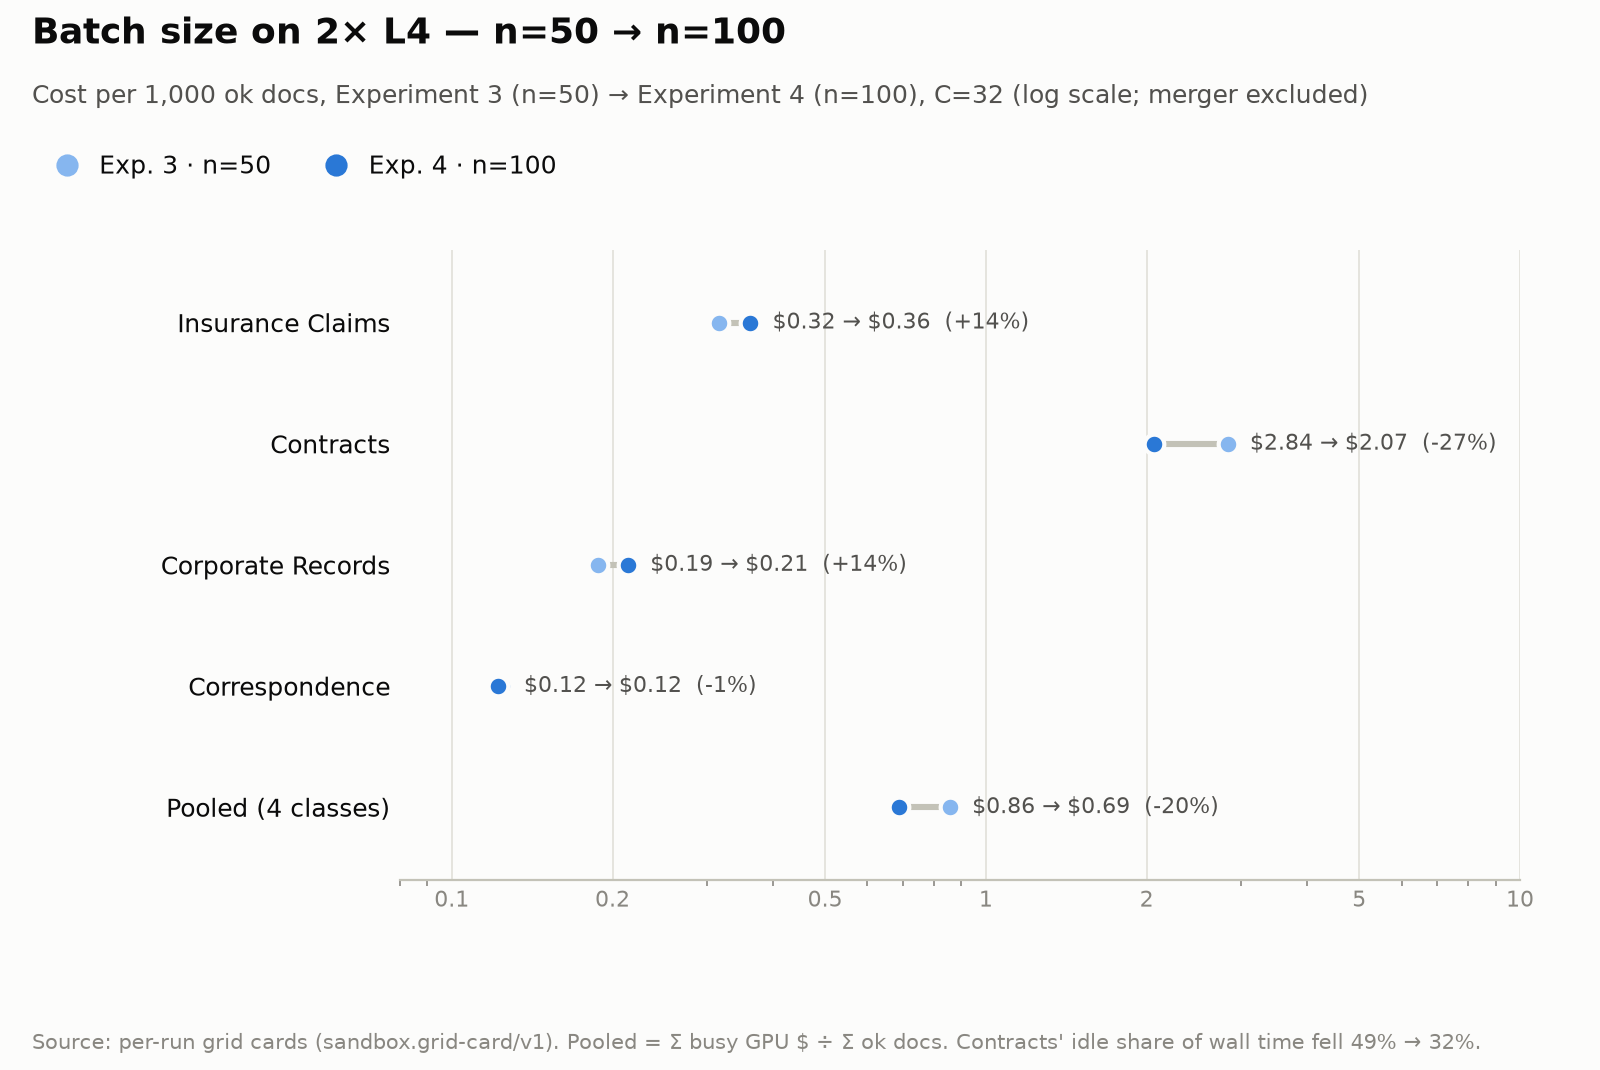
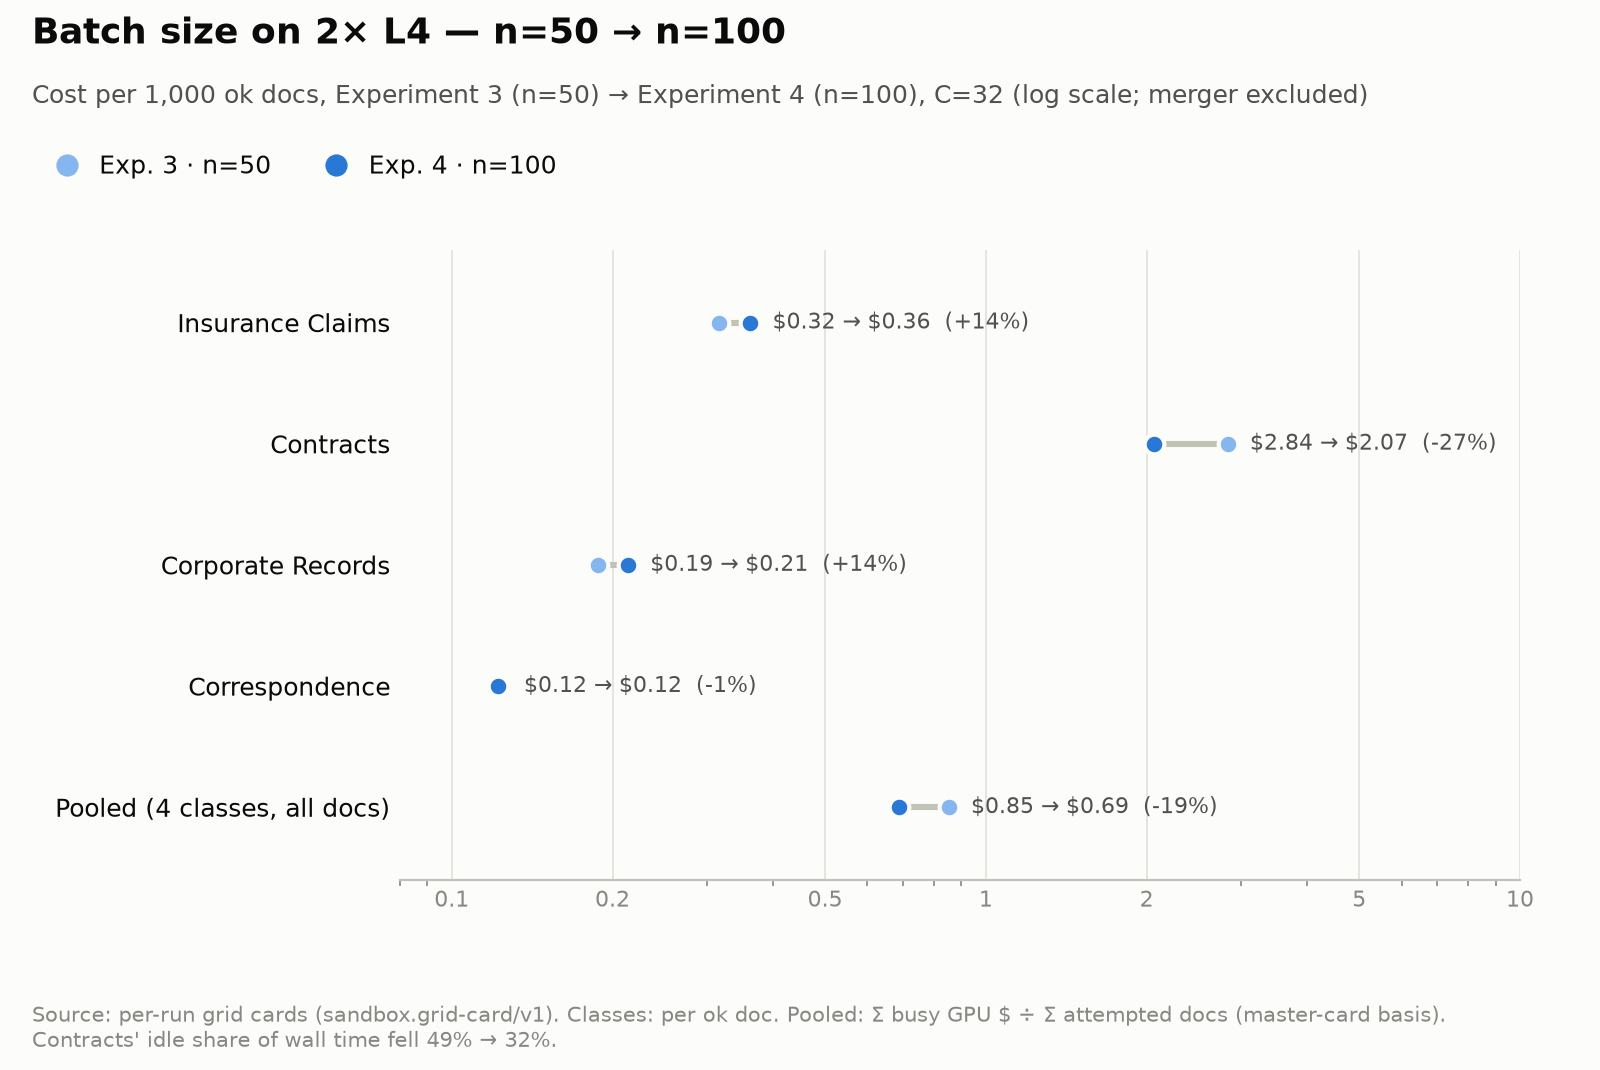
Record figures: pooled cost rows on the master card's basis
The pooled rows in 1x-vs-2xL4-cost and 2xL4-n50-vs-n100-cost now use busy
GPU $ / attempted documents, the master card's basis, so they read +0.4%
and -19% like key findings 1 and 2. Class rows stay per ok document; the
row labels and footers say which basis each uses.

Claude-Session: https://claude.ai/code/session_01C6uhEVdNhAiZ2cTSTVmQv6

Changed region(s): [[0.0312, 0.9252, 0.9062, 0.9869], [0.0312, 0.7402, 0.2188, 0.771], [0.5938, 0.7402, 0.75, 0.771]]

diff --git a/reports/SAND-37/figures/record/make_record_figures.py b/reports/SAND-37/figures/record/make_record_figures.py
@@ -218,11 +218,12 @@ posture_set(S40, C_2L4_100, "2xL4-C32-n100", "Experiment 4 (2× L4 · C=32 · n=
 def pooled(data):
     busy = sum(m["busy"] for m in data.values()); ok = sum(m["ok"] for m in data.values())
     n = sum(m["n"] for m in data.values()); wall = sum(m["wall"] for m in data.values())
-    return {"cost_1k": busy / ok * 1000, "dpm": n / (wall / 60)}
+    # Pooled cost uses the master card's basis: busy GPU $ per attempted document.
+    return {"cost_1k": busy / n * 1000, "dpm": n / (wall / 60)}
 
 
 P1, P2 = pooled(S39), pooled(S37_2)
-ROWS = LABELS + ["Pooled"]
+ROWS = LABELS + ["Pooled (all docs)"]
 LEG = [(C_1L4_50, "Exp. 2 · 1× L4 C8"), (C_2L4_50, "Exp. 3 · 2× L4 C32")]
 CMP = "Same 250 documents: Experiment 2 (1× L4 · C=8 · n=50) → Experiment 3 (2× L4 · C=32 · n=50)"
 
@@ -244,7 +245,7 @@ def dumbbell(ax, a, b, labels, fmt, log=False, delta=True):
 
 g = lambda d, m: [d[k][m] for k in KEYS]
 fig, ax = new_fig("Cost per 1,000 ok documents — 1× vs 2× L4", CMP + " (log scale)",
-                  SRC + " Pooled = Σ busy GPU $ ÷ Σ ok docs.", LEG, rows=6)
+                  SRC + " Classes: per ok doc. Pooled: Σ busy GPU $ ÷ Σ attempted docs (master-card basis).", LEG, rows=6)
 dumbbell(ax, g(S39, "cost_1k") + [P1["cost_1k"]], g(S37_2, "cost_1k") + [P2["cost_1k"]], ROWS, lambda x: f"${x:.2f}", log=True)
 ax.set_xlim(0.08, 60)
 save(fig, "1x-vs-2xL4-cost")
@@ -355,13 +356,14 @@ save(fig, "merger-frozen-vs-dagger")
 # 3. Batch size on 2× L4: n=50 (Experiment 3) → n=100 (Experiment 4), four unchanged classes + pooled.
 C_N50, C_N100 = "#86b6ef", "#2a78d6"   # ordinal steps of the 2× L4 blue
 four = [k for k in KEYS if k != "merger"]
-labs4 = [lab for k, lab in CLASSES if k != "merger"] + ["Pooled (4 classes)"]
-pool = lambda d: sum(d[k]["busy"] for k in four) / sum(d[k]["ok"] for k in four) * 1000
+labs4 = [lab for k, lab in CLASSES if k != "merger"] + ["Pooled (4 classes, all docs)"]
+pool = lambda d: sum(d[k]["busy"] for k in four) / sum(d[k]["n"] for k in four) * 1000  # master-card basis
 a = [S37_2[k]["cost_1k"] for k in four] + [pool(S37_2)]
 b = [S40[k]["cost_1k"] for k in four] + [pool(S40)]
 fig, ax = new_fig("Batch size on 2× L4 — n=50 → n=100",
                   "Cost per 1,000 ok docs, Experiment 3 (n=50) → Experiment 4 (n=100), C=32 (log scale; merger excluded)",
-                  SRC + " Pooled = Σ busy GPU $ ÷ Σ ok docs. Contracts' idle share of wall time fell 49% → 32%.",
+                  SRC + " Classes: per ok doc. Pooled: Σ busy GPU $ ÷ Σ attempted docs (master-card basis)."
+                  "\nContracts' idle share of wall time fell 49% → 32%.",
                   [(C_N50, "Exp. 3 · n=50"), (C_N100, "Exp. 4 · n=100")], rows=5)
 ys = list(range(len(a)))[::-1]
 ax.hlines(ys, a, b, color=AXIS, linewidth=2.2, zorder=1)
